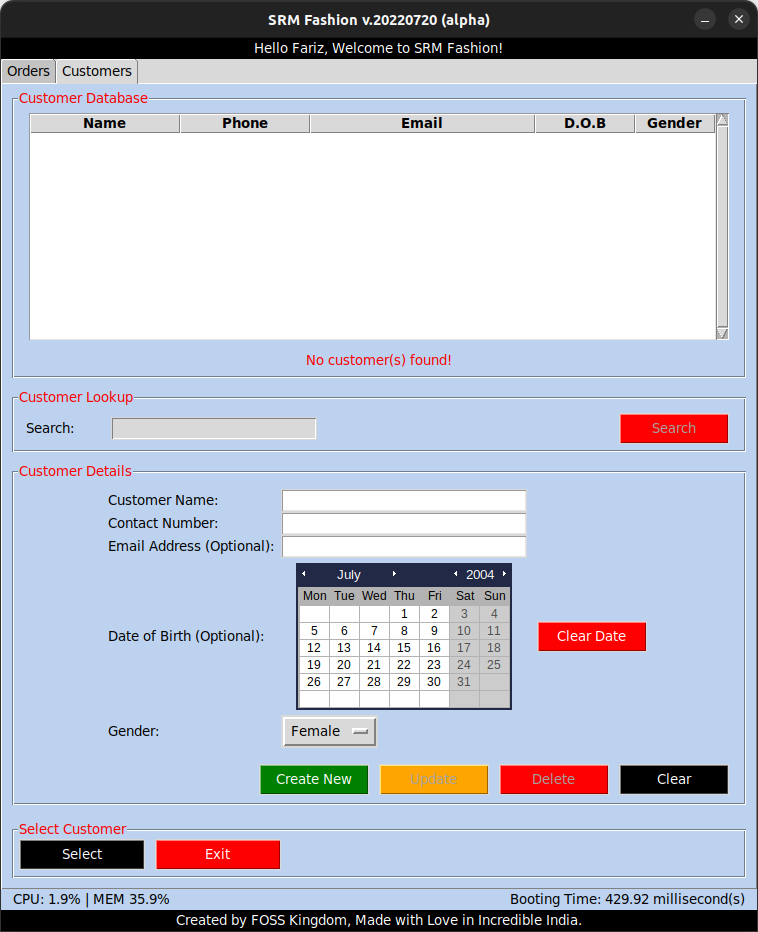
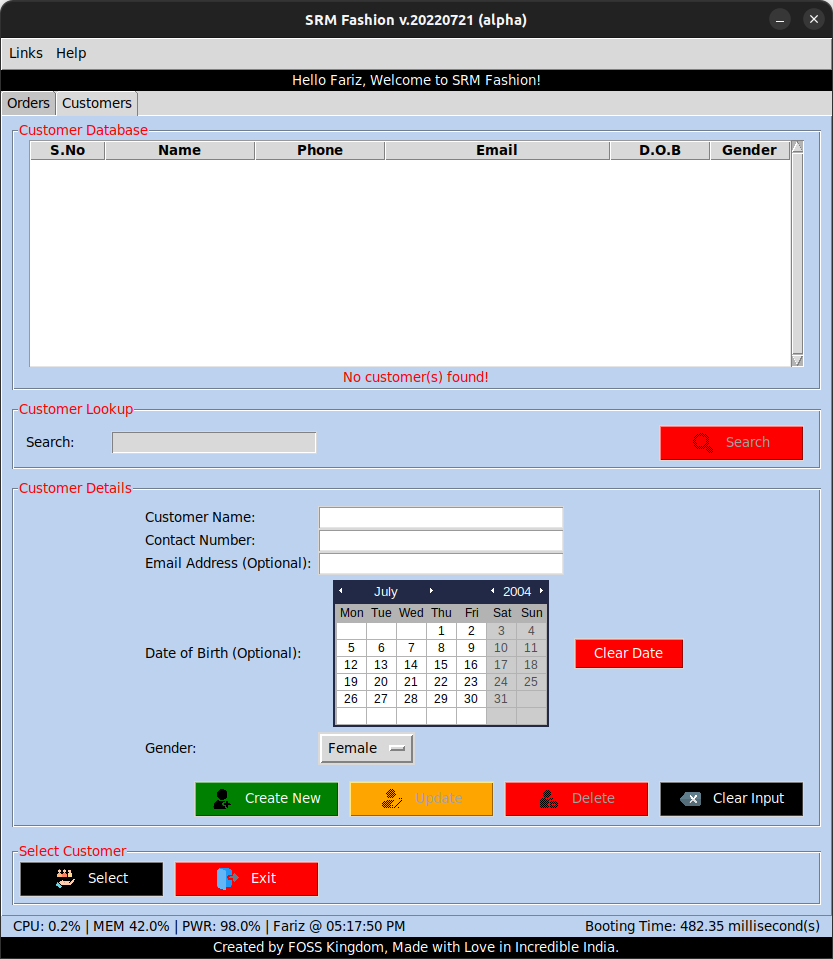
Updated UI

Changed region(s): [[0.0, 0.0, 1.0, 0.9957]]

diff --git a/__main__.py b/__main__.py
@@ -92,7 +92,10 @@ def search_record() -> None:
     treeview_db.delete(*treeview_db.get_children())
     total_customers_label.config(text="No customer(s) found!")
 
+    count: int = 0
     for _ in total_records:
+        count: int = count + 1
+        _: list = [count, _[0], _[1], _[2], _[3], _[4]]
         treeview_db.insert(parent="", index="end", values=_)
 
     total_customers: int = len(treeview_db.get_children())
@@ -150,7 +153,10 @@ def update_database() -> None:
     update_button.config(state="disabled")
 
     c.execute("select * from customers")
+    count: int = 0
     for _ in c.fetchall():
+        count: int = count + 1
+        _: list = [count, _[0], _[1], _[2], _[3], _[4]]
         treeview_db.insert(parent="", index="end", values=_)
 
     total_customers: int = len(treeview_db.get_children())
@@ -639,6 +645,32 @@ try:
     donation_icon_path: str = join(base_path, "assets/donation.png")
     qrcode_path: str = join(base_path, "assets/qr_code.png")
     cache_file_path: str = join(base_path, "__pycache__")
+    order_icon_path: str = join(base_path, "assets/order.png")
+    # <a href="https://www.flaticon.com/free-icons/target" title="target icons">
+    # Target icons created by Freepik - Flaticon
+    # </a>
+    customers_icon_path: str = join(base_path, "assets/target.png")
+    exit_icon_path: str = join(base_path, "assets/logout.png")
+    # <a href="https://www.flaticon.com/free-icons/search" title="search icons">
+    # Search icons created by Icon home - Flaticon
+    # </a>
+    search_icon_path: str = join(base_path, "assets/magnifying-glass.png")
+    # <a href="https://www.flaticon.com/free-icons/user" title="user icons">
+    # User icons created by uicon - Flaticon
+    # </a>
+    adduser_icon_path: str = join(base_path, "assets/add-user.png")
+    # <a href="https://www.flaticon.com/free-icons/edit" title="edit icons">
+    # Edit icons created by Pixel perfect - Flaticon
+    # </a>
+    edituser_icon_path: str = join(base_path, "assets/edit.png")
+    # <a href="https://www.flaticon.com/free-icons/delete" title="delete icons">
+    # Delete icons created by Andrean Prabowo - Flaticon
+    # </a>
+    removeuser_icon_path: str = join(base_path, "assets/delete-user.png")
+    # <a href="https://www.flaticon.com/free-icons/delete" title="delete icons">
+    # Delete icons created by Pixel perfect - Flaticon
+    # </a>
+    clear_icon_path: str = join(base_path, "assets/delete.png")
     os_name: str = os_env()
     start_time: float = time()
 
@@ -686,9 +718,16 @@ try:
     app.bind(sequence="<Escape>", func=lambda event: exit_app())
 
     menu_bar: Menu = Menu(master=app)
+    links_menu: Menu = Menu(master=menu_bar, tearoff=0)
     help_menu: Menu = Menu(master=menu_bar, tearoff=0)
 
+    menu_bar.add_cascade(label="Links", menu=links_menu)
     menu_bar.add_cascade(label="Help", menu=help_menu)
+
+    links_menu.add_command(label="Licence", command=not_ready_yet)
+    links_menu.add_command(label="Source Code", command=not_ready_yet)
+    links_menu.add_command(label="Issues", command=not_ready_yet)
+    links_menu.add_command(label="Website", command=not_ready_yet)
 
     donation_icon: PhotoImage = PhotoImage(file=donation_icon_path).subsample(
         x=25, y=25
@@ -871,24 +910,30 @@ try:
     )
     lf1.pack(side="bottom", padx=10, ipady=3, pady=10, fill="x")
 
+    order_icon: PhotoImage = PhotoImage(file=order_icon_path).subsample(x=24, y=24)
     order_button: Button = Button(
         master=lf1,
         text="Add an Order",
         bg="black",
         fg="white",
-        width=12,
+        width=115,
         command=lambda: tab_view.select(tab_id=1),
+        image=order_icon,
+        compound="left",
     )
     order_button.bind(sequence="<Return>", func=lambda event: tab_view.select(tab_id=1))
     order_button.grid(row=0, column=0, padx=5)
 
+    exit_icon: PhotoImage = PhotoImage(file=exit_icon_path).subsample(x=24, y=24)
     exit_button: Button = Button(
         master=lf1,
         text="Exit",
         bg="red",
         fg="white",
-        width=12,
+        compound="left",
+        width=115,
         command=exit_app,
+        image=exit_icon,
     )
     exit_button.bind(sequence="<Return>", func=lambda event: exit_app())
     exit_button.grid(row=0, column=1, padx=5)
@@ -924,7 +969,7 @@ try:
     lf24.pack(side="bottom", padx=10, pady=10, ipady=3, fill="x")
 
     # Customer tab, Treeview section
-    header_list: list = ["Name", "Phone", "Email", "D.O.B", "Gender"]
+    header_list: list = ["S.No", "Name", "Phone", "Email", "D.O.B", "Gender"]
 
     treeview_frame: Frame = Frame(master=lf21, bg=accent_color_light)
     treeview_frame.pack(padx=15, fill="both", expand=1)
@@ -943,11 +988,12 @@ try:
     for _ in header_list:
         treeview_db.heading(column=_, text=_)
 
-    treeview_db.column(column=0, width=150, minwidth=150, anchor="w")
-    treeview_db.column(column=1, width=130, minwidth=130, anchor="center")
-    treeview_db.column(column=2, width=225, minwidth=225, anchor="w")
-    treeview_db.column(column=3, width=100, minwidth=100, anchor="center")
-    treeview_db.column(column=4, width=80, minwidth=80, anchor="w")
+    treeview_db.column(column=0, width=75, minwidth=75, anchor="center")
+    treeview_db.column(column=1, width=150, minwidth=150, anchor="w")
+    treeview_db.column(column=2, width=130, minwidth=130, anchor="center")
+    treeview_db.column(column=3, width=225, minwidth=225, anchor="w")
+    treeview_db.column(column=4, width=100, minwidth=100, anchor="center")
+    treeview_db.column(column=5, width=80, minwidth=80, anchor="w")
 
     treeview_db.bind(sequence="<Double-1>", func=lambda event: fetch_data())
     treeview_db.bind(sequence="<Return>", func=lambda event: fetch_data())
@@ -967,14 +1013,17 @@ try:
     search_entry.bind(sequence="<Return>", func=lambda event: search_record())
     search_entry.pack(side="left", padx=25)
 
+    search_icon: PhotoImage = PhotoImage(file=search_icon_path).subsample(x=24, y=24)
     search_button: Button = Button(
         master=lf22,
         text="Search",
         bg="red",
         fg="white",
         state="disabled",
-        width=10,
+        compound="left",
+        width=115,
         command=search_record,
+        image=search_icon,
     )
     search_button.bind(sequence="<Return>", func=lambda event: search_record())
     search_button.pack(side="right", padx=15)
@@ -1054,59 +1103,80 @@ try:
     f22: Frame = Frame(master=lf23, bg=accent_color_light)
     f22.pack(padx=10, pady=5, ipady=3, side="right", fill="both", expand=1)
 
+    clear_icon: PhotoImage = PhotoImage(file=clear_icon_path).subsample(x=24, y=24)
     clear_input_data: Button = Button(
         master=f22,
         text="Clear Input",
         bg="black",
         fg="white",
-        width=10,
+        compound="left",
+        width=115,
         command=clear_entry,
+        image=clear_icon,
     )
     clear_input_data.bind(sequence="<Return>", func=lambda event: clear_entry())
     clear_input_data.pack(padx=5, side="right")
 
+    removeuser_icon: PhotoImage = PhotoImage(file=removeuser_icon_path).subsample(
+        x=24, y=24
+    )
     delete_button: Button = Button(
         master=f22,
         text="Delete",
         bg="red",
         fg="white",
         state="disabled",
-        width=10,
+        compound="left",
+        width=115,
         command=delete_entry,
+        image=removeuser_icon,
     )
     delete_button.bind(sequence="<Return>", func=lambda event: delete_entry())
     delete_button.pack(padx=5, side="right")
 
+    edituser_icon: PhotoImage = PhotoImage(file=edituser_icon_path).subsample(
+        x=24, y=24
+    )
     update_button: Button = Button(
         master=f22,
         text="Update",
         bg="orange",
         fg="white",
         state="disabled",
-        width=10,
+        compound="left",
+        width=115,
         command=update_entry,
+        image=edituser_icon,
     )
     update_button.bind(sequence="<Return>", func=lambda event: update_entry())
     update_button.pack(padx=5, side="right")
 
+    adduser_icon: PhotoImage = PhotoImage(file=adduser_icon_path).subsample(x=24, y=24)
     create_button: Button = Button(
         master=f22,
         text="Create New",
         bg="green",
         fg="white",
-        width=10,
+        compound="left",
+        width=115,
         command=create_entry,
+        image=adduser_icon,
     )
     create_button.bind(sequence="<Return>", func=lambda event: create_entry())
     create_button.pack(padx=5, side="right")
 
+    customer_icon: PhotoImage = PhotoImage(file=customers_icon_path).subsample(
+        x=24, y=24
+    )
     selection_button: Button = Button(
         master=lf24,
         text="Select",
         bg="black",
         fg="white",
-        width=12,
+        compound="left",
+        width=115,
         command=not_ready_yet,
+        image=customer_icon,
     )
     selection_button.bind(sequence="<Return>", func=lambda event: not_ready_yet())
     selection_button.grid(row=0, column=0, padx=5)
@@ -1116,8 +1186,10 @@ try:
         text="Exit",
         bg="red",
         fg="white",
-        width=12,
+        compound="left",
+        width=115,
         command=exit_app,
+        image=exit_icon,
     )
     exit_button.bind(sequence="<Return>", func=lambda event: exit_app())
     exit_button.grid(row=0, column=1, padx=5)
